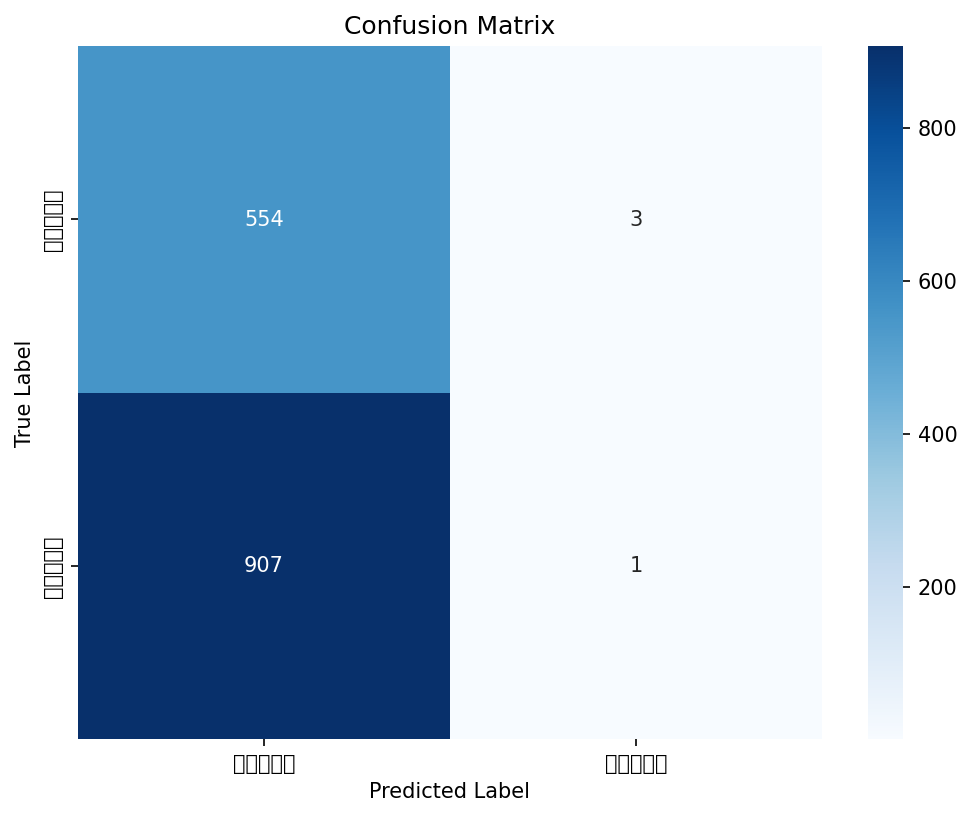
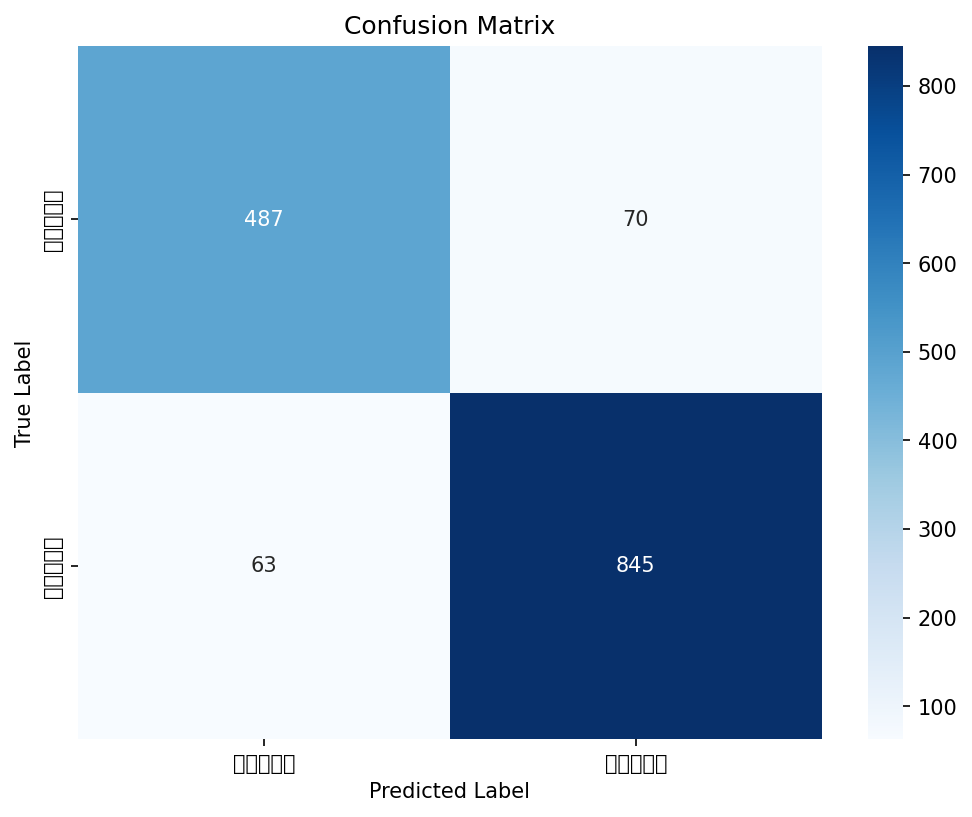
Phase 2: Add debug scripts and updated visualizations
- Add debug_model_loading.py for model loading verification
- Add test_new_model.py for quick sanity testing
- Update confusion matrix and score distribution visualizations
- Reflect improved model performance in outputs

diff --git a/backend/debug_model_loading.py b/backend/debug_model_loading.py
@@ -1,0 +1,37 @@
+#!/usr/bin/env python3
+"""
+Debug script to understand which model is being loaded
+"""
+
+import logging
+from app.model_loader import LightweightSentimentModel
+
+logging.basicConfig(level=logging.INFO, format='%(levelname)s: %(message)s')
+
+def debug_model_loading():
+    print("=== Debug Model Loading ===")
+    
+    model = LightweightSentimentModel('models')
+    success = model.load_model()
+    
+    print(f"Model loaded successfully: {success}")
+    print(f"Model is_loaded: {model.is_loaded}")
+    print(f"Vectorizer type: {type(model.vectorizer)}")
+    print(f"Classes: {model.classes_}")
+    print(f"Metadata: {model.metadata}")
+    
+    if hasattr(model, 'coef_') and model.coef_ is not None:
+        print(f"Coef shape: {model.coef_.shape}")
+    
+    positive_text = "最高に嬉しい！"
+    negative_text = "最悪で腹が立つ。"
+    
+    result1 = model.predict(positive_text)
+    result2 = model.predict(negative_text)
+    
+    print(f"\nPrediction Results:")
+    print(f"Positive: '{positive_text}' -> {result1}")
+    print(f"Negative: '{negative_text}' -> {result2}")
+
+if __name__ == "__main__":
+    debug_model_loading()

diff --git a/backend/test_new_model.py b/backend/test_new_model.py
@@ -1,0 +1,33 @@
+#!/usr/bin/env python3
+"""
+Test script to verify the new improved model works correctly
+"""
+
+from app.model_loader import LightweightSentimentModel
+
+def test_new_model():
+    print("=== Testing New Improved Model ===")
+    
+    model = LightweightSentimentModel('models')
+    model.load_model()
+    print("Model loaded successfully")
+    
+    positive_text = "最高に嬉しい！"
+    negative_text = "最悪で腹が立つ。"
+    
+    result1 = model.predict(positive_text)
+    result2 = model.predict(negative_text)
+    
+    print(f"\nSanity Test Results:")
+    print(f"Positive text: '{positive_text}' -> {result1['result']} (score: {result1['score']:.3f})")
+    print(f"Negative text: '{negative_text}' -> {result2['result']} (score: {result2['score']:.3f})")
+    
+    if result1['result'] == result2['result']:
+        print("❌ BIAS DETECTED: Both texts have same classification")
+        return False
+    else:
+        print("✅ NO BIAS: Texts have different classifications")
+        return True
+
+if __name__ == "__main__":
+    test_new_model()
